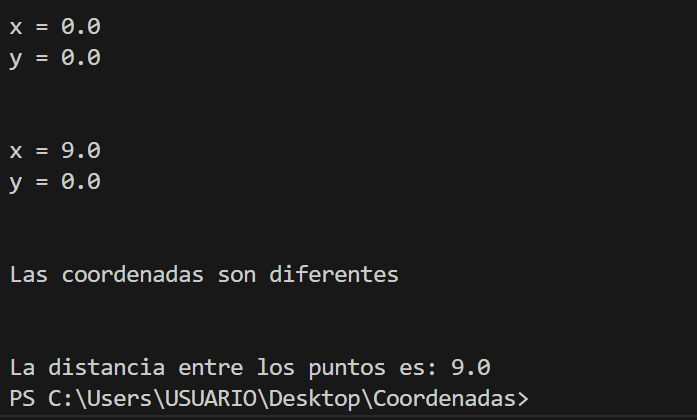
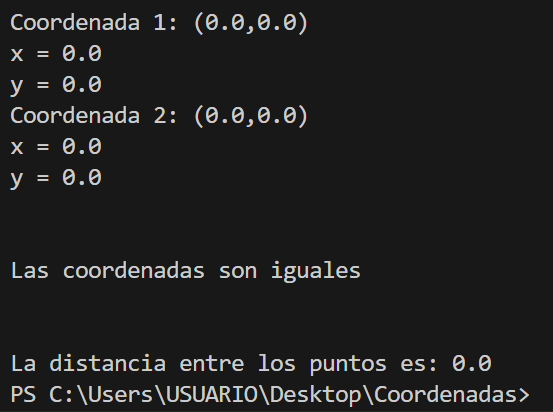
2

diff --git a/ejecutable/Test.java b/ejecutable/Test.java
@@ -8,16 +8,13 @@ public class Test
 {
     public static void main(String[] args) {
         Coordenada c1=new Coordenada(0, 0);
+        System.out.println("Coordenada 1: "+"("+c1.getX()+","+c1.getY()+")");
+        System.out.println("x = "+ c1.getX());
+        System.out.println("y = " + c1.getY());
            
 
-            System.out.println("x = "+ c1.getX());
-            System.out.println("y = " + c1.getY());
-           
-  
-        System.out.println("\n");
-
-            Coordenada c2= new Coordenada(0 , 0);
-      
+            Coordenada c2= new Coordenada(9 , 5);
+            System.out.println("Coordenada 2: "+"("+c2.getX()+","+c2.getY()+")");
             System.out.println("x = "+ c2.getX());
             System.out.println("y = " + c2.getY());
         System.out.println("\n");
